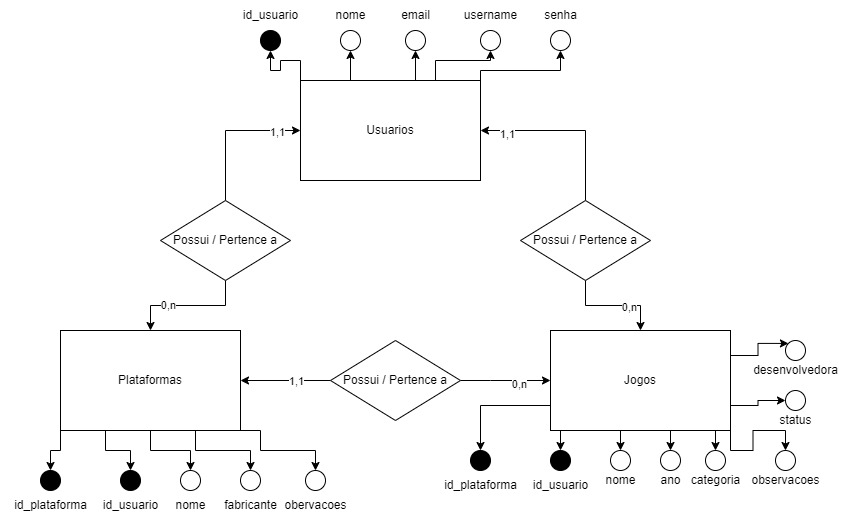
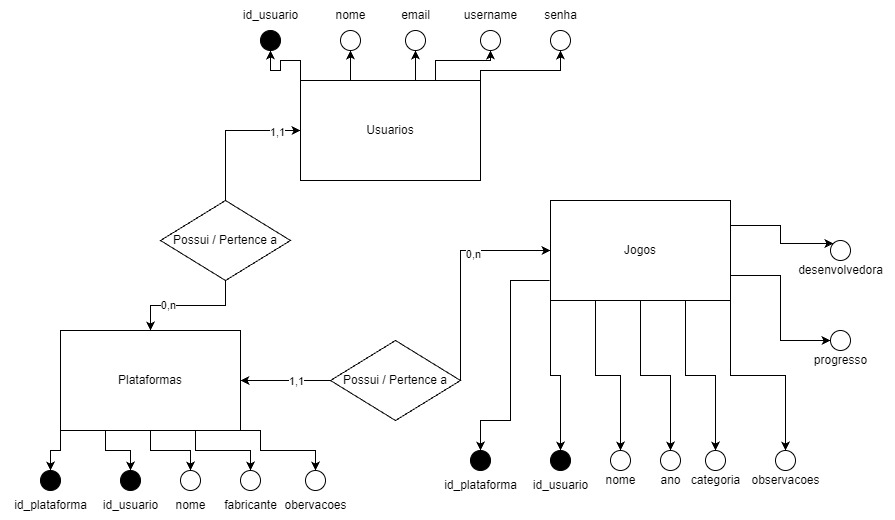
reestruturando o banco de dados, removendo uma fragilidade de relacionamento

diff --git a/src/routers/routers_plataforma.py b/src/routers/routers_plataforma.py
@@ -1,7 +1,7 @@
 from fastapi import APIRouter, Depends, HTTPException
 from typing import List
 from sqlalchemy.orm import Session
-from src.infra.sqlalchemy.config.database import criar_sessao
+from src.infra.sqlalchemy.config.database import obter_sessao
 from src.schemas import schemas
 from src.infra.sqlalchemy.repositorios.repositorio_plataforma import RepositorioPlataforma
 
@@ -11,51 +11,51 @@ router = APIRouter()
 @router.post("/plataformas", response_model=schemas.PlataformaDadosSimples,
              status_code=201)
 async def cadastrar_plataforma(plataforma: schemas.PlataformaCadastro,
-                               session: Session = Depends(criar_sessao)):
+                               session: Session = Depends(obter_sessao)):
     return RepositorioPlataforma(session).criar(plataforma)
 
 
 @router.get("/plataformas",
             response_model=List[schemas.PlataformaDadosSemLista])
-async def listar_plataformas(session: Session = Depends(criar_sessao)):
+async def listar_plataformas(session: Session = Depends(obter_sessao)):
     return RepositorioPlataforma(session).listar()
 
 
 @router.get("/plataformas/{id_plataforma}",
             response_model=schemas.PlataformaDadosSimples)
 async def obter_plataforma(id_plataforma: int,
-                           session: Session = Depends(criar_sessao)):
+                           session: Session = Depends(obter_sessao)):
     plataforma = RepositorioPlataforma(session).obter(id_plataforma)
 
     if not plataforma:
-        raise HTTPException(status_code=404, 
+        raise HTTPException(status_code=404,
                             detail="Plataforma não encontrada!")
-    
+
     return plataforma
 
 
-@router.put("/plataformas/{id_plataforma}", 
+@router.put("/plataformas/{id_plataforma}",
             response_model=schemas.PlataformaDadosSimples)
 async def atualizar_plataforma(id_plataforma: int,
                                plataforma: schemas.PlataformaPut,
-                               session: Session = Depends(criar_sessao)):
+                               session: Session = Depends(obter_sessao)):
     plataforma_a_atualizar = RepositorioPlataforma(session).atualizar(
         id_plataforma, plataforma)
 
     if not plataforma_a_atualizar:
-        raise HTTPException(status_code=404, 
+        raise HTTPException(status_code=404,
                             detail="Plataforma não encontrada!")
-    
+
     return plataforma_a_atualizar
 
 
 @router.delete("/plataformas/{id_plataforma}")
 async def remover_plataforma(id_plataforma: int,
-                             session: Session = Depends(criar_sessao)):
+                             session: Session = Depends(obter_sessao)):
     plataforma = RepositorioPlataforma(session).remover(id_plataforma)
 
     if not plataforma:
-        raise HTTPException(status_code=404, 
+        raise HTTPException(status_code=404,
                             detail="Plataforma não encontrada!")
-    
+
     return plataforma

diff --git a/src/routers/routers_usuario.py b/src/routers/routers_usuario.py
@@ -2,7 +2,7 @@ from fastapi import APIRouter, Depends, HTTPException
 from typing import List
 from sqlalchemy.orm import Session
 from src.schemas import schemas
-from src.infra.sqlalchemy.config.database import criar_sessao
+from src.infra.sqlalchemy.config.database import obter_sessao
 from src.infra.sqlalchemy.repositorios.repositorio_usuario import RepositorioUsuario
 
 router = APIRouter()
@@ -11,46 +11,48 @@ router = APIRouter()
 @router.post("/usuarios", response_model=schemas.UsuarioDadosSimples,
              status_code=201)
 async def cadastar_usuario(usuario: schemas.UsuarioCadastro,
-                           session: Session = Depends(criar_sessao)):
+                           session: Session = Depends(obter_sessao)):
     return RepositorioUsuario(session).criar(usuario)
 
 
 @router.get("/usuarios", response_model=List[schemas.UsuarioDadosSemLista])
-async def listar_usuarios(session: Session = Depends(criar_sessao)):
+async def listar_usuarios(session: Session = Depends(obter_sessao)):
     return RepositorioUsuario(session).listar()
 
 
 @router.get("/usuarios/{id_usuario}",
             response_model=schemas.UsuarioDadosSimples)
 async def obter_usuario(id_usuario: int,
-                        session: Session = Depends(criar_sessao)):
+                        session: Session = Depends(obter_sessao)):
     usuario = RepositorioUsuario(session).obter(id_usuario)
 
     if not usuario:
-        raise HTTPException(status_code=404, detail="Usuário não encontrado!")
-    
+        raise HTTPException(
+            status_code=404, detail="Usuário não encontrado!")
+
     return usuario
 
 
 @router.put("/usuarios/{id_usuario}",
             response_model=schemas.UsuarioDadosSimples)
 async def atualizar_usuario(id_usuario: int, usuario: schemas.UsuarioCadastro,
-                            session: Session = Depends(criar_sessao)):
+                            session: Session = Depends(obter_sessao)):
     usuario_a_atualizar = RepositorioUsuario(session).atualizar(
         id_usuario, usuario)
 
     if not usuario_a_atualizar:
         raise HTTPException(status_code=404, detail="Usuario não encontrado!")
-        
+
     return usuario_a_atualizar
 
 
 @router.delete("/usuarios/{id_usuario}")
 async def remover_usuario(id_usuario: int,
-                          session: Session = Depends(criar_sessao)):
+                          session: Session = Depends(obter_sessao)):
     usuario = RepositorioUsuario(session).remover(id_usuario)
 
     if not usuario:
-        raise HTTPException(status_code=404, detail="Usuário não encontrado!")
-    
+        raise HTTPException(
+            status_code=404, detail="Usuário não encontrado!")
+
     return usuario

diff --git a/src/routers/routers_jogo.py b/src/routers/routers_jogo.py
@@ -1,7 +1,7 @@
 from fastapi import APIRouter, Depends, HTTPException
 from typing import List
 from sqlalchemy.orm import Session
-from src.infra.sqlalchemy.config.database import criar_sessao
+from src.infra.sqlalchemy.config.database import obter_sessao
 from src.infra.sqlalchemy.repositorios.repositorio_jogo import RepositorioJogo
 from src.schemas import schemas
 
@@ -10,42 +10,42 @@ router = APIRouter()
 
 @router.post("/jogos", response_model=schemas.JogoDadosSimples, status_code=201)
 async def cadastrar_jogo(jogo: schemas.JogoCadastro,
-                         session: Session = Depends(criar_sessao)):
+                         session: Session = Depends(obter_sessao)):
     return RepositorioJogo(session).criar(jogo)
 
 
 @router.get("/jogos", response_model=List[schemas.JogoDadosSemLista])
-async def listar_jogos(session: Session = Depends(criar_sessao)):
+async def listar_jogos(session: Session = Depends(obter_sessao)):
     return RepositorioJogo(session).listar()
 
 
 @router.get("/jogos/{id_jogo}", response_model=schemas.JogoDadosSimples)
-async def obter_jogo(id_jogo: int, session: Session = Depends(criar_sessao)):
+async def obter_jogo(id_jogo: int, session: Session = Depends(obter_sessao)):
     jogo = RepositorioJogo(session).obter(id_jogo)
 
     if not jogo:
         raise HTTPException(status_code=404, detail="Jogo não encontrado!")
-    
+
     return jogo
 
 
 @router.put("/jogos/{id_jogo}", response_model=schemas.JogoDadosSimples)
 async def atualizar_jogo(id_jogo: int,
                          jogo: schemas.JogoPut,
-                         session: Session = Depends(criar_sessao)):
+                         session: Session = Depends(obter_sessao)):
     jogo_a_atualizar = RepositorioJogo(session).atualizar(id_jogo, jogo)
 
     if not jogo_a_atualizar:
         raise HTTPException(status_code=404, detail="Jogo não encontrado!")
-    
+
     return jogo_a_atualizar
 
 
 @router.delete("/jogos/{id_jogo}")
-async def remover_jogo(id_jogo: int, session: Session = Depends(criar_sessao)):
+async def remover_jogo(id_jogo: int, session: Session = Depends(obter_sessao)):
     jogo = RepositorioJogo(session).remover(id_jogo)
 
     if not jogo:
         raise HTTPException(status_code=404, detail="Jogo não encontrado!")
-    
+
     return jogo

diff --git a/src/infra/sqlalchemy/models/models.py b/src/infra/sqlalchemy/models/models.py
@@ -13,7 +13,6 @@ class Usuario(Base):
     senha = Column(String(100))
 
     plataformas = relationship("Plataforma", back_populates="usuario")
-    jogos = relationship("Jogo", back_populates="usuario")
 
 
 class Plataforma(Base):
@@ -38,9 +37,7 @@ class Jogo(Base):
     ano = Column(Integer)
     categoria = Column(String(20))
     desenvolvedora = Column(String(15))
-    id_usuario = Column(Integer, ForeignKey("usuario.id"))
     observacoes = Column(String(100))
     progresso = Column(DECIMAL(3, 2))
 
-    usuario = relationship("Usuario", back_populates="jogos")
     plataforma = relationship("Plataforma", back_populates="jogos")

diff --git a/alembic/versions/502ddc1b6adc_inicial.py b/alembic/versions/502ddc1b6adc_inicial.py
@@ -1,8 +1,8 @@
 """inicial
 
-Revision ID: 4a1a81c3948a
+Revision ID: 502ddc1b6adc
 Revises: 
-Create Date: 2023-06-27 17:19:07.874423
+Create Date: 2023-07-04 15:33:50.958406
 
 """
 from alembic import op
@@ -10,7 +10,7 @@ import sqlalchemy as sa
 
 
 # revision identifiers, used by Alembic.
-revision = '4a1a81c3948a'
+revision = '502ddc1b6adc'
 down_revision = None
 branch_labels = None
 depends_on = None

diff --git a/src/infra/sqlalchemy/config/database.py b/src/infra/sqlalchemy/config/database.py
@@ -15,9 +15,11 @@ def criar_banco_de_dados():
     Base.metadata.create_all(bind=engine)
 
 
-def criar_sessao():
+def obter_sessao():
     session = SessionLocal()
+
     try:
         yield session
+
     finally:
         session.close()
